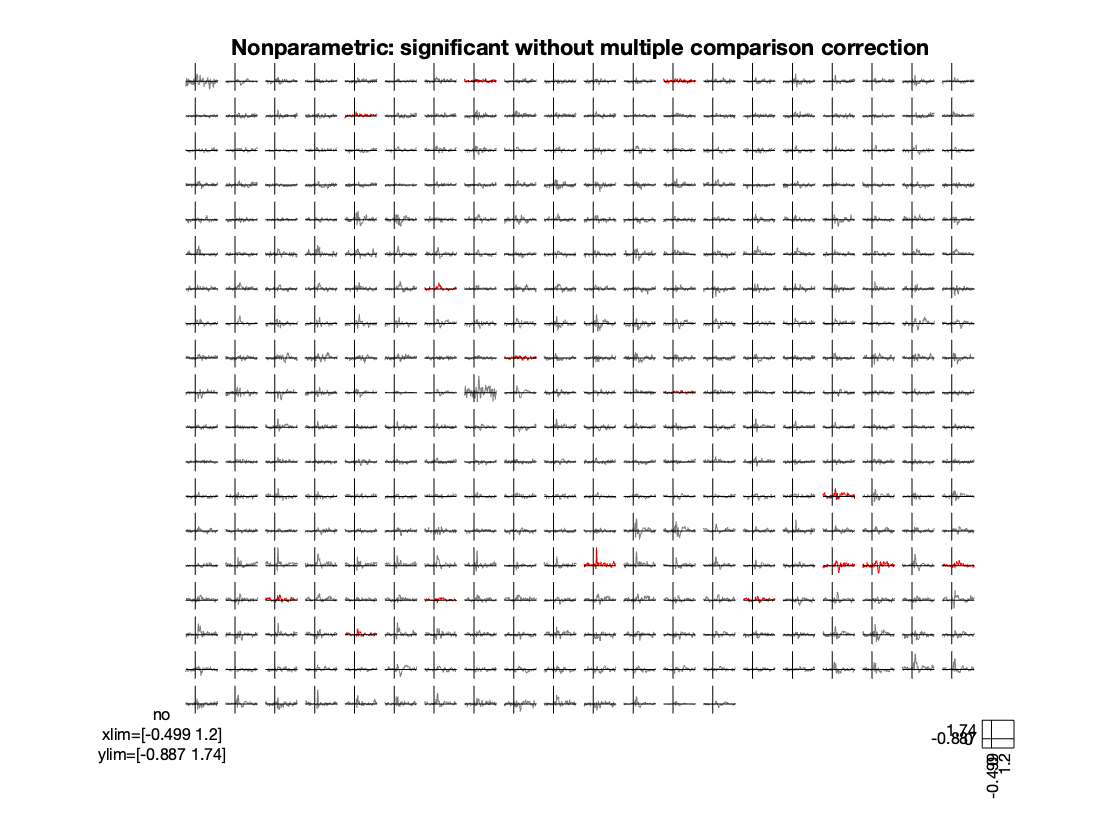
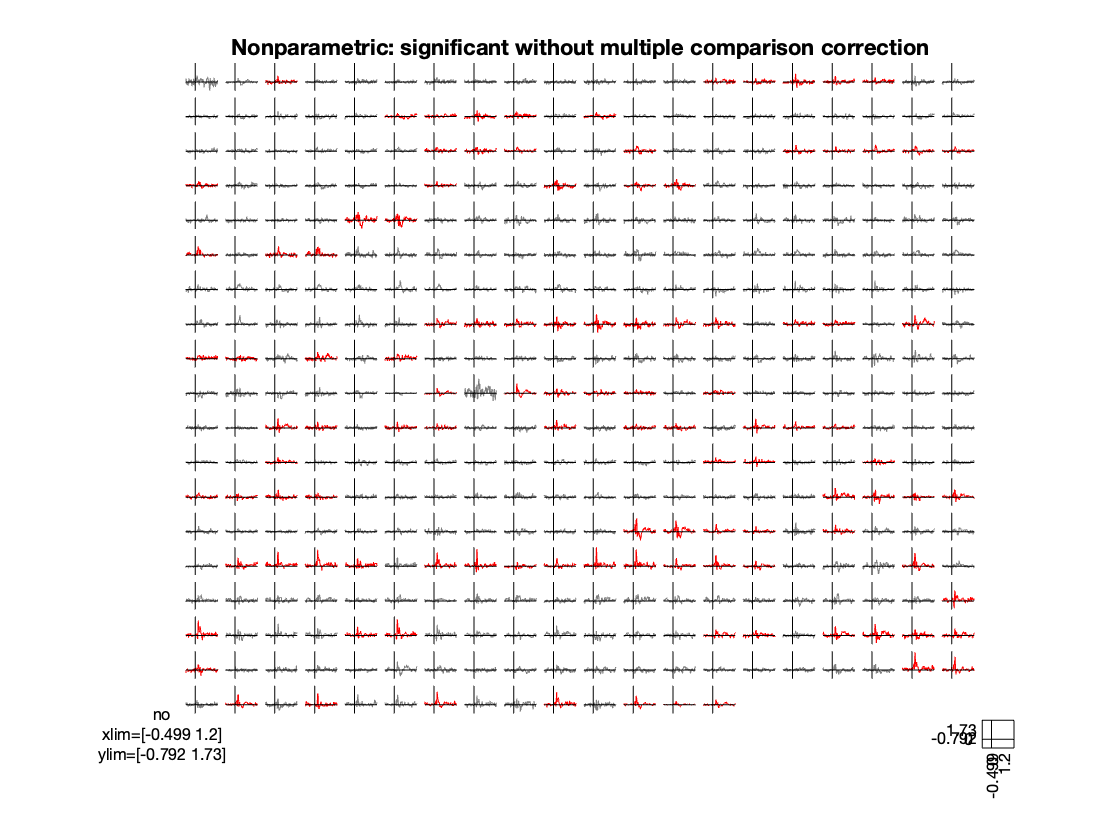
update figures

diff --git a/workshop/practicalmeeg2025/handson_groupanalysis.md b/workshop/practicalmeeg2025/handson_groupanalysis.md
@@ -260,11 +260,11 @@ In the previous paragraph we picked a channel/parcel and time window by hand aft
 
     clear h p
 
-    famous_minus_scrambled = zeros(1, 15);
+    famous_minus_scrambled = zeros(1, 16);
 
     % loop over channels
     for iChan = 1:374
-      for iSub = 1:15
+      for iSub = 1:16
         famous_minus_scrambled(iSub) = ...
           mean(avg_famous{iSub}.avg(iChan, timesel)) - ...
           mean(avg_scrambled{iSub}.avg(iChan, timesel));
